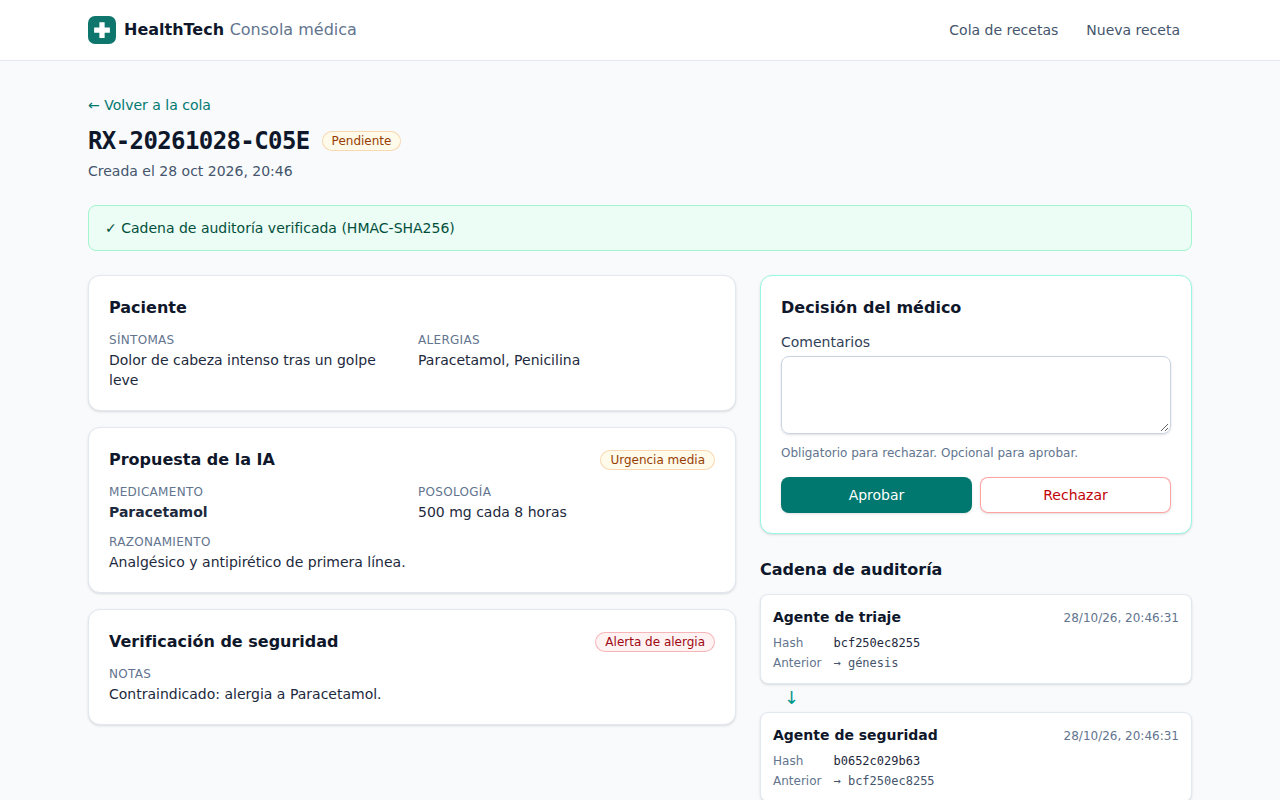
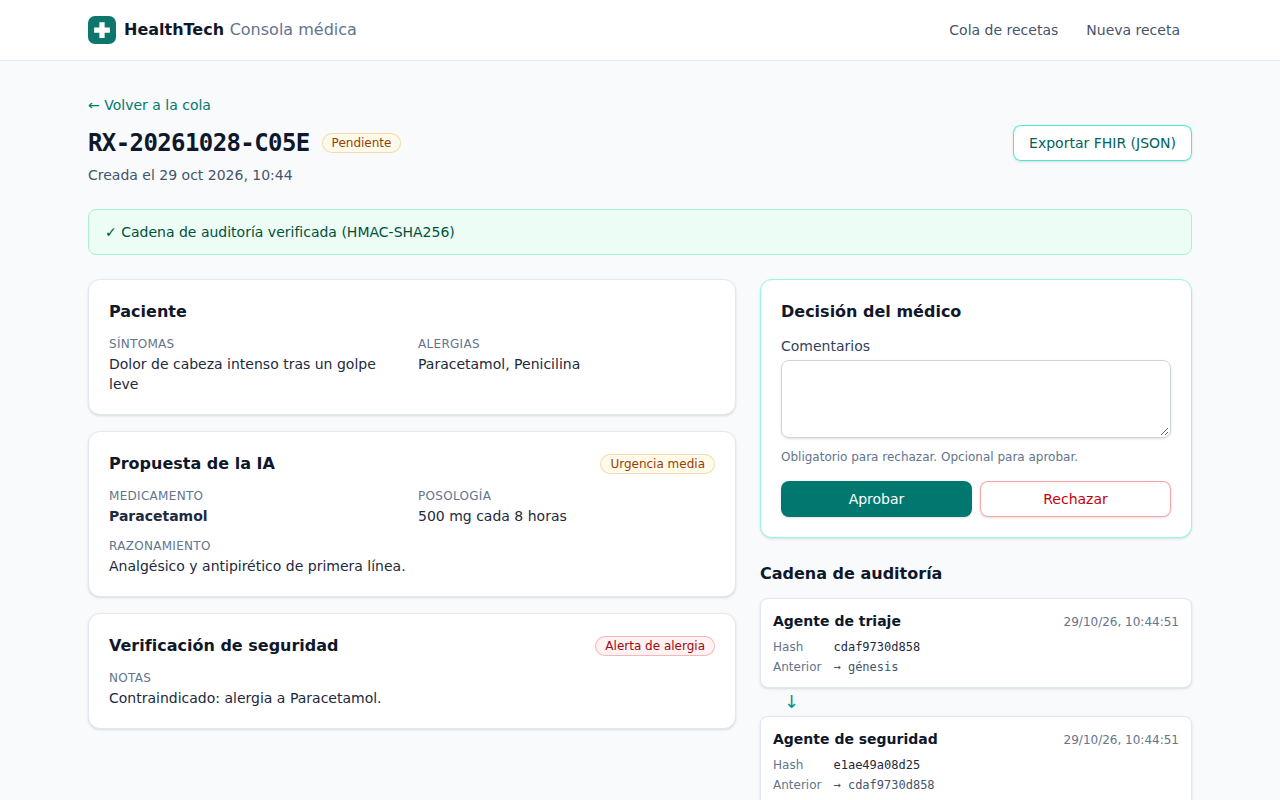
docs: describe the FHIR flow and add a screenshot of a FHIR-sourced prescription

diff --git a/e2e/screenshots.ts b/e2e/screenshots.ts
@@ -58,4 +58,16 @@ test("README screenshots", async ({ page, request }) => {
   await page.goto("/prescriptions/session-RX-20261028-C05E");
   await expect(page.getByRole("button", { name: "Aprobar" })).toBeVisible();
   await page.screenshot({ path: "docs/detail.png" });
+
+  const fromFhir = await request.post(`${API_URL}/api/v1/prescriptions/from-fhir`, {
+    data: {
+      prescription_id: "RX-20261028-F41R",
+      fhir_patient_id: "p1",
+      patient_symptoms: "Fiebre de 38,5 °C y dolor de cabeza desde ayer",
+    },
+  });
+  expect(fromFhir.status(), "create RX-20261028-F41R from FHIR").toBe(201);
+  await page.goto("/prescriptions/session-RX-20261028-F41R");
+  await expect(page.getByText("Origen: FHIR Patient/p1")).toBeVisible();
+  await page.screenshot({ path: "docs/detail-fhir.png" });
 });

diff --git a/README.md b/README.md
@@ -6,6 +6,7 @@
 The web console where a doctor reviews prescriptions proposed by AI agents.
 The [HealthTech Agent Orchestrator](https://github.com/kauan287/healthtech-agent-orchestrator) runs a triage agent and a safety agent on each request, then holds the prescription until a doctor decides.
 This console lists that queue, shows the proposal next to the allergy check, records the approval or rejection, and draws the HMAC-signed audit chain behind every prescription.
+The doctor either types the patient's allergies or has the orchestrator read the active ones from an HL7 FHIR R4 server, and can download any verified prescription as a FHIR Bundle.
 If someone edits the orchestrator's database by hand, the API withholds the clinical data and the console shows a red banner with no way to decide, so nobody can approve a forged prescription.
 
 **Live demo.** https://healthtech-doctor-console.onrender.com. The API runs on a free plan that sleeps when idle, so the first request takes about a minute. The console says so while it waits.
@@ -16,12 +17,17 @@ The UI text is in Spanish because the demo targets Spanish-speaking clinics. Cod
 | ------------------------------------------------------------------------------------ | ------------------------------------------------------------------------------------------------------------------ |
 | ![Queue with pending, approved, rejected and tampered prescriptions](docs/queue.png) | ![Detail of a pending prescription with an allergy alert, the decision panel and the audit chain](docs/detail.png) |
 
+A prescription whose allergies came from FHIR names the patient it read them from:
+
+![Detail of a prescription read from FHIR Patient/p1, with its active Paracetamol allergy and the allergy alert](docs/detail-fhir.png)
+
 ## What this project shows
 
 - One table per domain concept drives the UI. [`src/domain/status.ts`](src/domain/status.ts) maps each API status to its label, badge colour and whether the doctor can still decide. No component branches on a status string to pick a colour.
 - The API response is parsed once at the boundary. [`src/domain/prescription.ts`](src/domain/prescription.ts) turns it into a union of `VerifiedPrescription` and `TamperedPrescription`. The API already withholds the clinical fields of a tampered record. The parser also files any record whose `audit_chain_valid` is false as tampered, and `TamperedPrescription` has no clinical fields, so no screen can render them even if a response carried them.
 - Types come from the API contract. `npm run gen:api` writes [`src/api/schema.d.ts`](src/api/schema.d.ts) from the orchestrator's OpenAPI document, and CI fails if the committed file drifts.
 - Errors read as plain Spanish. [`src/api/errors.ts`](src/api/errors.ts) turns a 409, a 429 with `Retry-After`, or a network failure into a sentence a doctor can act on.
+- FHIR in both directions. In **Leer de FHIR** mode, the new-prescription form sends a FHIR patient id to `POST /api/v1/prescriptions/from-fhir`, and the orchestrator reads that patient's active allergies. The parser maps `fhir_patient` into the verified prescription's `patient.source`, so the detail page can say **Origen: FHIR Patient/p1**. **Exportar FHIR (JSON)** downloads the signed Bundle. The end-to-end test runs against [`e2e/fhir-server.ts`](e2e/fhir-server.ts), a fake FHIR server with one active and one inactive allergy, and checks that only the active one reaches the safety agent.
 - Component tests run the whole app against [MSW](https://mswjs.io) handlers and assert what the doctor sees. See [`src/pages/DetailPage.test.tsx`](src/pages/DetailPage.test.tsx).
 - End-to-end tests drive a real orchestrator with no mocks. [`e2e/console.spec.ts`](e2e/console.spec.ts) approves a prescription, then edits the signed details and timestamps in the SQLite file and checks that the console shows the red banner and offers no decision.
 
@@ -48,6 +54,7 @@ cd healthtech-agent-orchestrator
 uv sync
 ENVIRONMENT=development LLM_PROVIDER=demo DATABASE_URL=sqlite:////tmp/orchestrator.db \
   CORS_ORIGINS=http://localhost:5173,http://localhost:4173 \
+  FHIR_BASE_URL=http://localhost:8090/fhir \
   uv run uvicorn src.server:app --port 8000
 ```
 
@@ -57,6 +64,8 @@ Then start the console:
 npm ci
 npm run dev
 ```
+
+`FHIR_BASE_URL` points at the fake FHIR server that the end-to-end tests start. Run `node e2e/fhir-server.ts` to try **Leer de FHIR** with patient `p1`, or set `FHIR_BASE_URL=https://hapi.fhir.org/baseR4` to read the public HAPI server.
 
 Open http://localhost:5173. To use another API, set `VITE_API_URL`, for example `VITE_API_URL=https://healthtech-orchestrator.onrender.com npm run dev`.
 `npm run build` refuses to run without `VITE_API_URL`, so a production bundle never points at localhost by accident.
@@ -72,7 +81,7 @@ Open http://localhost:5173. To use another API, set `VITE_API_URL`, for example 
 | `npm run gen:api`     | Regenerates the API types from `$VITE_API_URL/openapi.json` |
 | `npm run screenshots` | Regenerates `docs/*.png`                                    |
 
-The end-to-end tests tamper with the orchestrator's database, so they need its SQLite path:
+The end-to-end tests tamper with the orchestrator's database, so they need its SQLite path. Playwright starts the fake FHIR server on port 8090 itself, so the orchestrator needs `FHIR_BASE_URL=http://localhost:8090/fhir`:
 
 ```bash
 npx playwright install chromium
@@ -90,7 +99,7 @@ src/
   components/   badges, audit timeline, decision panel, layout, wake-up notice
   pages/        queue, detail and new prescription screens, with their tests
   test/         MSW server, fixtures, render helper
-e2e/            Playwright tests and the screenshot script
+e2e/            Playwright tests, the screenshot script and the fake FHIR server
 ```
 
 Built with Vite, React 19, TypeScript, React Router, TanStack Query, Tailwind CSS, Vitest, MSW and Playwright.
